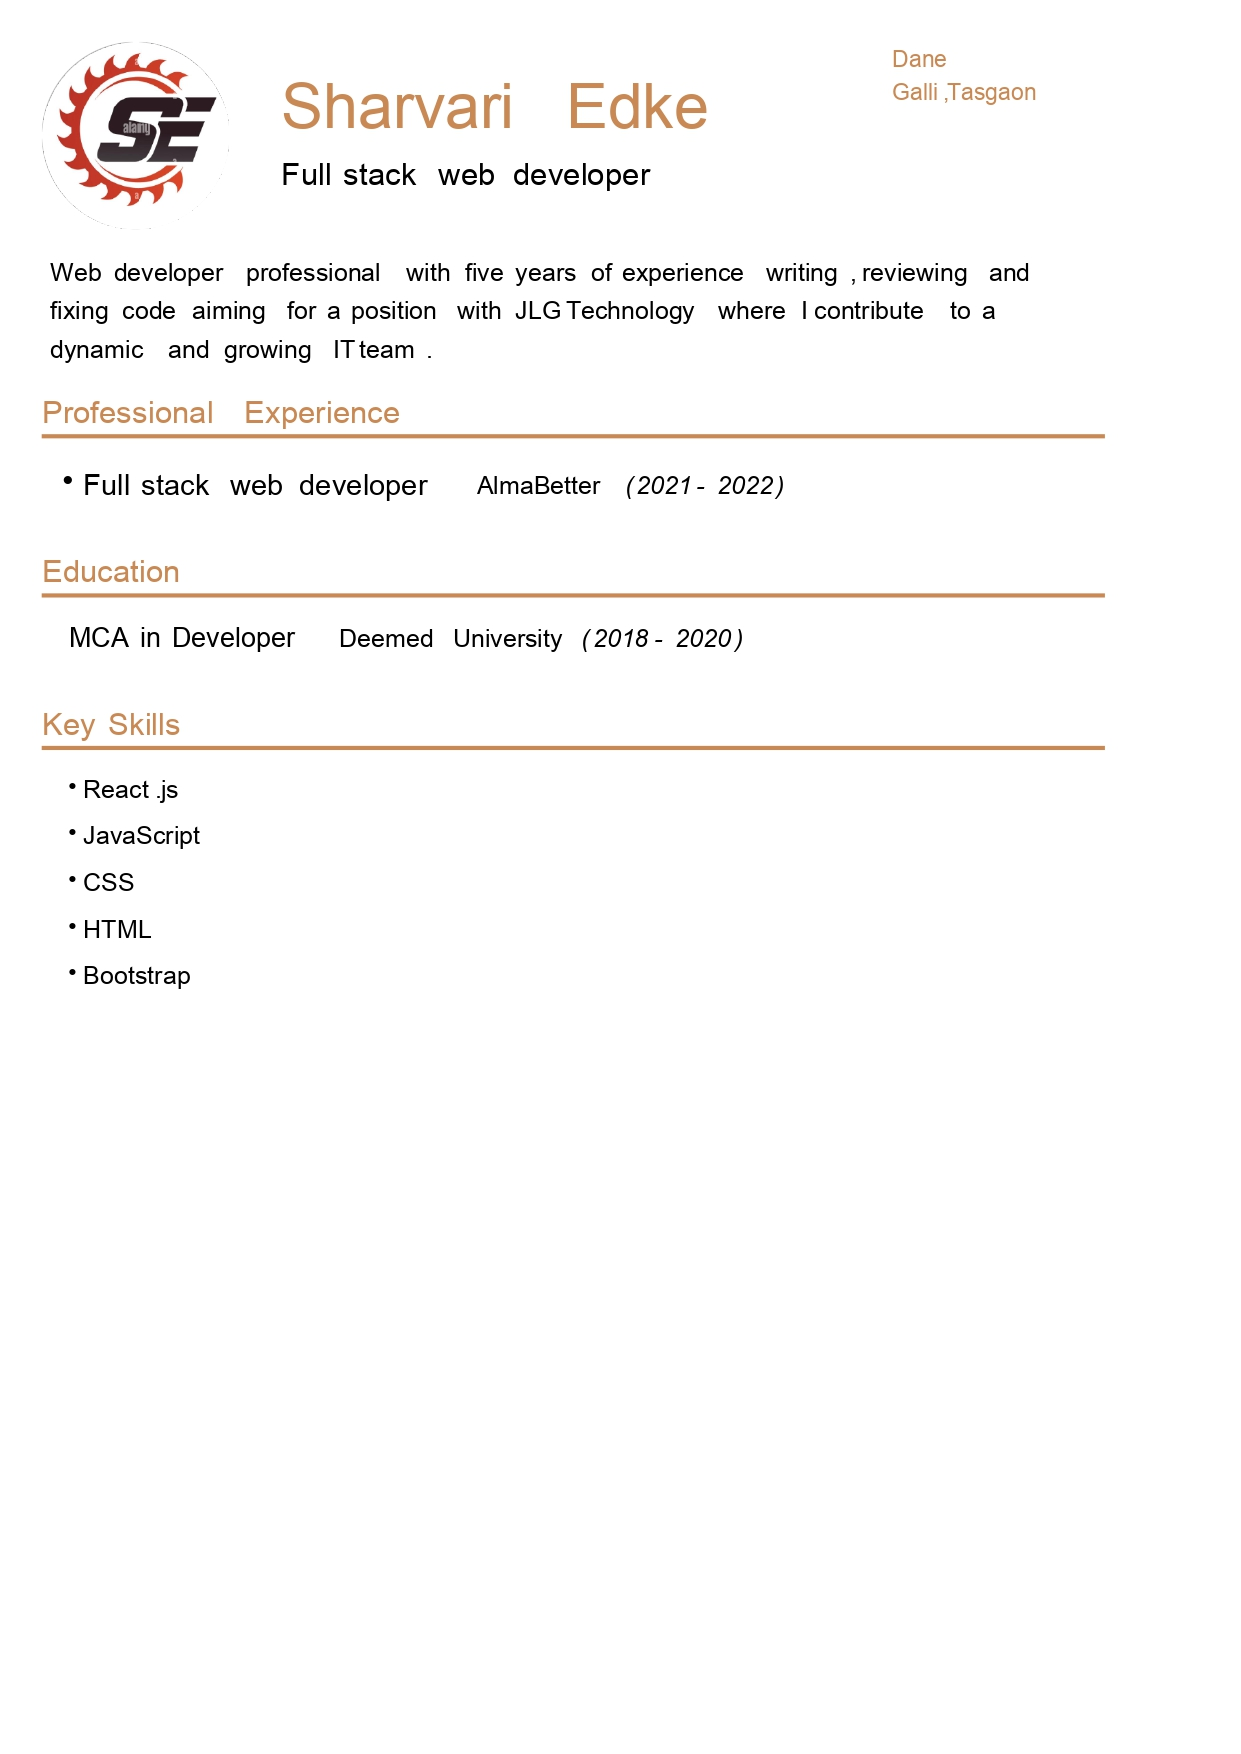
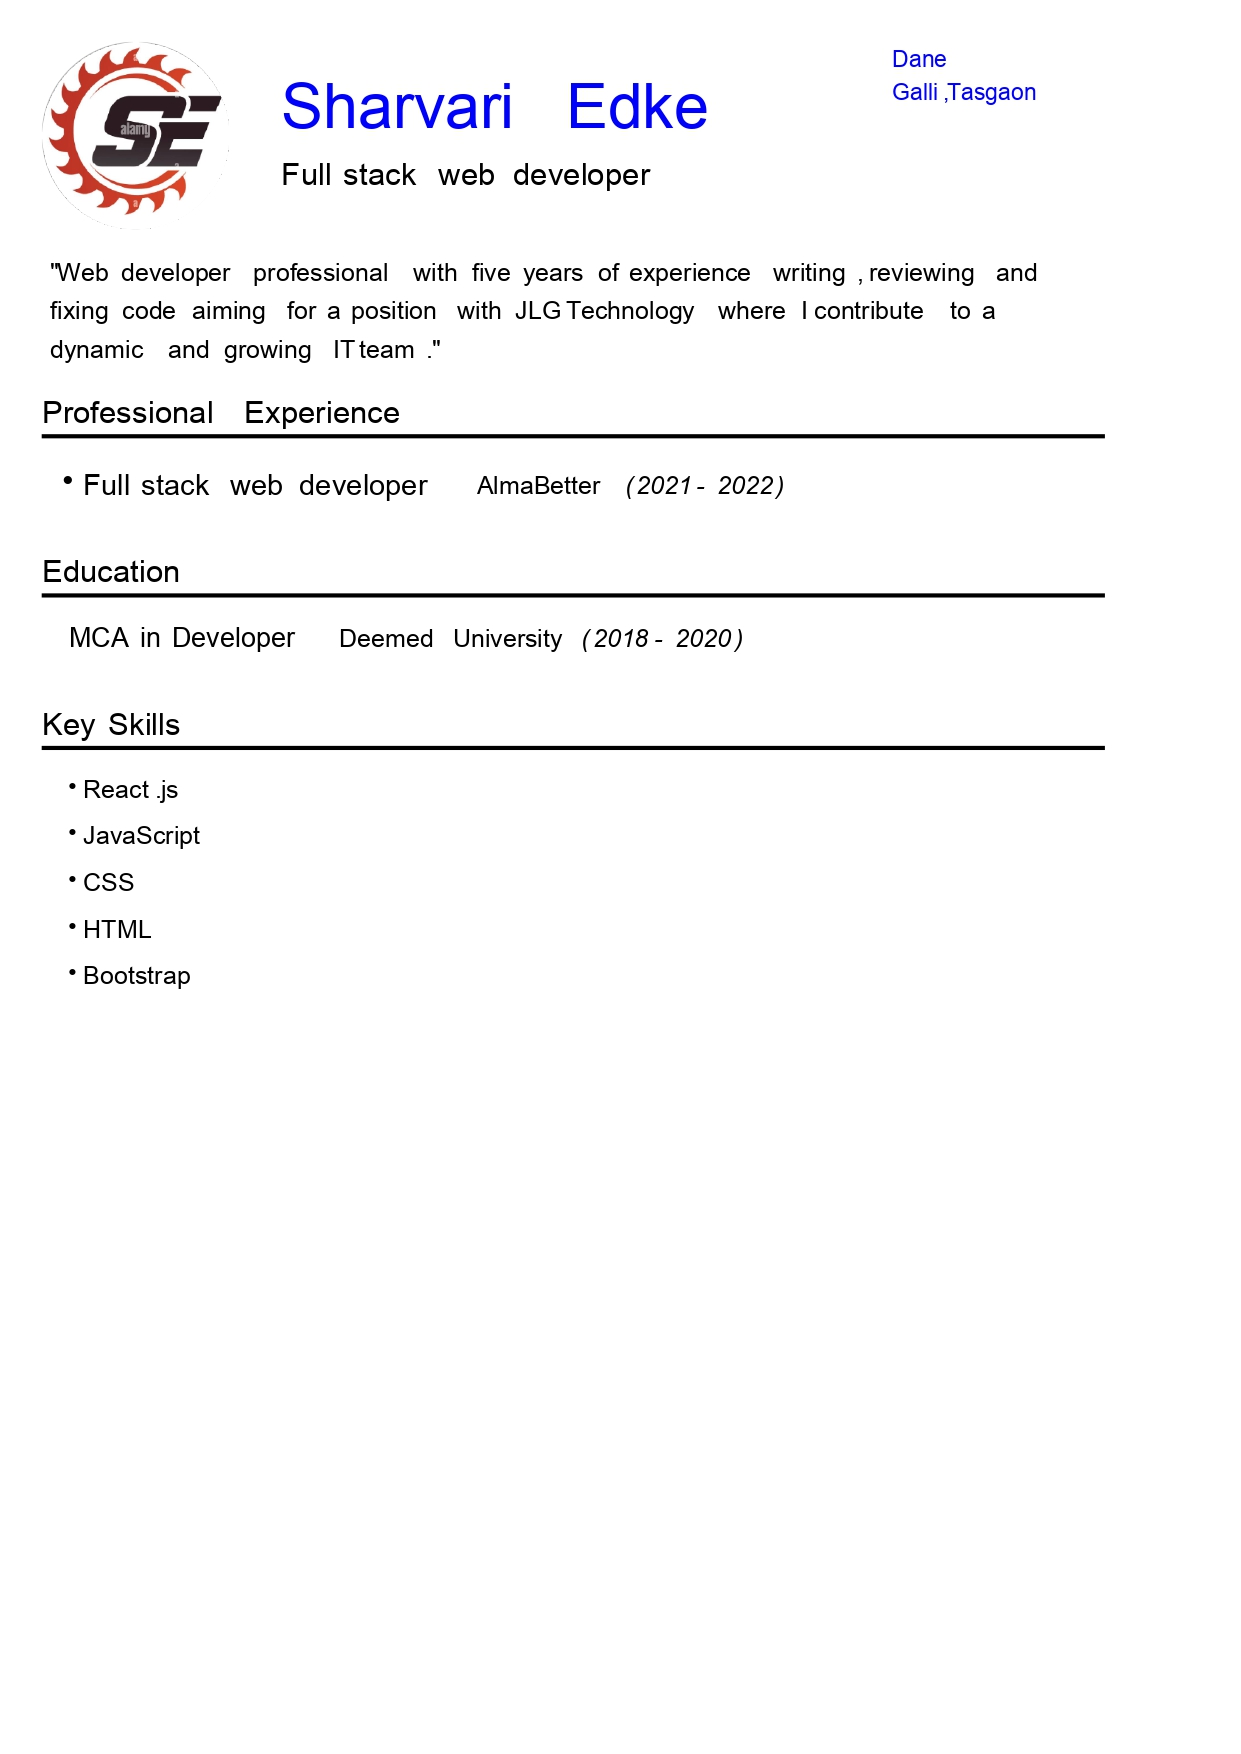
first commit

diff --git a/src/Templates/Template3.js b/src/Templates/Template3.js
@@ -1,14 +1,14 @@
 import { Container, Paper } from "@mui/material";
 import React from "react";
-import "../Styles/Template1.css";
+import "../Styles/Template3.css";
 import TemplateHeader from "../Component/TemplateHeader";
 import TemplateHeading from "../Component/TemplateHeading";
-import TemplateOneExperienceComponent from "../Component/TemplateOneExperienceComponent";
 import { data } from "../Data/data";
+import TemplateOneExperienceComponent from "../Component/TemplateOneExperienceComponent";
 import TemplateEducationComponent from "../Component/TemplateEducationComponent";
 import TemplateKeySkillComponent from "../Component/TemplateKeySkillComponent";
 
-const Template1 = (props) => {
+const Template3 = (props) => {
   // console.log(
   //   props.personalinfo,
   //   props.workexperience,
@@ -25,7 +25,7 @@ const Template1 = (props) => {
     ? props.educationinfo
     : data.education_details;
   const skills = props.skills ? props.skills : data.key_skills;
-  // console.log(props.index);
+
   return (
     <Paper
       sx={{
@@ -47,15 +47,15 @@ const Template1 = (props) => {
       id={`${props.index}report`}
       elevation={3}>
       <TemplateHeader
-        primaryColor={"blue"}
+        primaryColor={"black"}
         secondaryColor={"black"}
-        bgColor={"white"}
+        bgColor={"azure"}
         personalInfo={personalinfo}
         workExperience={workexperience}
       />
       <Container>
-        <TemplateHeading color={"black"} title={"Professional Experience"} />
-        <ul style={{ paddingBottom: 10 }}>
+        <TemplateHeading color={"Gray"} title={"Professional Experience"} />
+        <ul style={{ marginBottom: 10 }}>
           {workexperience.map((experience, index) => {
             return (
               <TemplateOneExperienceComponent
@@ -65,9 +65,9 @@ const Template1 = (props) => {
             );
           })}
         </ul>
-        <TemplateHeading color={"black"} title={"Education"} />
+        <TemplateHeading color={"Gray"} title={"Education"} />
         <TemplateEducationComponent education={educationinfo} />
-        <TemplateHeading color={"black"} title={"Key Skills"} />
+        <TemplateHeading color={"Gray"} title={"Key Skills"} />
         <ul style={{ marginBottom: 10 }}>
           {skills.map((skill, index) => {
             return <TemplateKeySkillComponent key={index} skill={skill} />;
@@ -78,4 +78,4 @@ const Template1 = (props) => {
   );
 };
 
-export default Template1;
+export default Template3;

diff --git a/src/Data/data.js b/src/Data/data.js
@@ -1,38 +1,31 @@
 export const data = {
     personal_info: {
-      first_name: "Vibhor",
-      last_name: "Mahajan",
-      email: "real.vibs@gmail.com",
-      mobile: "+919999999999",
-      address: "28, Visara nagar",
-      city: "Navi Mumbai",
+      first_name: "Sharvari",
+      last_name: "Edke",
+      email: "sharvari0822@gmail.com",
+      mobile: "+917777777777",
+      address: "Dane Galli,Tasgaon",
+      city: "Sangli",
       state: "Maharastra",
-      postal_code: "400705",
+      postal_code: "416312",
       objective:
-        "Web3 Developer with a couple of years of working with blockchain technology. Used JavaScript and Python to build smart contracts and DeFi protocols. Good collaboration and communication skills. ",
+        "Web developer professional with five years of experience writing, reviewing and fixing code aiming for a position with JLG Technology where I contribute to a dynamic and growing IT team. ",
     },
     work_experience: [
       {
         id: 1,
-        job_title: "Blockchain Dev",
-        organization_name: "Alma Better",
-        start_year: "2018",
+        job_title: "Full stack web developer",
+        organization_name: "AlmaBetter",
+        start_year: "2021",
         end_year: "2022",
-      },
-      {
-        id: 2,
-        job_title: "Blockchain Dev",
-        organization_name: "Alma Better",
-        start_year: "2018",
-        end_year: "2022",
-      },
+      }
     ],
     education_details: {
       type: "Graduation",
-      university: "COEP",
-      degree: "B.Tech",
+      university: "Demmed University",
+      degree: "MCA",
       start_year: "2018",
-      end_year: "2022",
+      end_year: "2020",
     },
-    key_skills: ["Python", "Blockchain", "MERN Stack", "Solidity"],
+    key_skills: ["React", "Javascript", "HTML", "CSS","Bootstrap"],
 };

diff --git a/src/Templates/Template4.js b/src/Templates/Template4.js
@@ -8,7 +8,7 @@ import { data } from "../Data/data";
 import TemplateEducationComponent from "../Component/TemplateEducationComponent";
 import TemplateKeySkillComponent from "../Component/TemplateKeySkillComponent";
 
-const Template1 = (props) => {
+const Template4 = (props) => {
   // console.log(
   //   props.personalinfo,
   //   props.workexperience,
@@ -47,14 +47,14 @@ const Template1 = (props) => {
       id={`${props.index}report`}
       elevation={3}>
       <TemplateHeader
-        primaryColor={"blue"}
+        primaryColor={"green"}
         secondaryColor={"black"}
         bgColor={"white"}
         personalInfo={personalinfo}
         workExperience={workexperience}
       />
       <Container>
-        <TemplateHeading color={"black"} title={"Professional Experience"} />
+        <TemplateHeading color={"green"} title={"Professional Experience"} />
         <ul style={{ paddingBottom: 10 }}>
           {workexperience.map((experience, index) => {
             return (
@@ -65,9 +65,9 @@ const Template1 = (props) => {
             );
           })}
         </ul>
-        <TemplateHeading color={"black"} title={"Education"} />
+        <TemplateHeading color={"green"} title={"Education"} />
         <TemplateEducationComponent education={educationinfo} />
-        <TemplateHeading color={"black"} title={"Key Skills"} />
+        <TemplateHeading color={"green"} title={"Key Skills"} />
         <ul style={{ marginBottom: 10 }}>
           {skills.map((skill, index) => {
             return <TemplateKeySkillComponent key={index} skill={skill} />;
@@ -78,4 +78,4 @@ const Template1 = (props) => {
   );
 };
 
-export default Template1;
+export default Template4;

diff --git a/src/Templates/Template2.js b/src/Templates/Template2.js
@@ -49,12 +49,12 @@ const Template2 = (props) => {
       <TemplateHeader
         primaryColor={"white"}
         secondaryColor={"white"}
-        bgColor={"#9B536F"}
+        bgColor={"Gray"}
         personalInfo={personalinfo}
         workExperience={workexperience}
       />
       <Container>
-        <TemplateHeading color={"#9B536F"} title={"Professional Experience"} />
+        <TemplateHeading color={"Gray"} title={"Professional Experience"} />
         <ul style={{ marginBottom: 10 }}>
           {workexperience.map((experience, index) => {
             return (
@@ -65,9 +65,9 @@ const Template2 = (props) => {
             );
           })}
         </ul>
-        <TemplateHeading color={"#9B536F"} title={"Education"} />
+        <TemplateHeading color={"Gray"} title={"Education"} />
         <TemplateEducationComponent education={educationinfo} />
-        <TemplateHeading color={"#9B536F"} title={"Key Skills"} />
+        <TemplateHeading color={"Gray"} title={"Key Skills"} />
         <ul style={{ marginBottom: 10 }}>
           {skills.map((skill, index) => {
             return <TemplateKeySkillComponent key={index} skill={skill} />;

diff --git a/src/Data/templates.js b/src/Data/templates.js
@@ -1,7 +1,12 @@
 import templateOneImg from "../Images/resume-template-one.JPG";
 import templateTwoImg from "../Images/resume-template-two.JPG";
+import templateThreeImg from"../Images/resume-template-three.JPG";
+import templateFoureImg from"../Images/resume-template-foure.JPG";
 import Template1 from "../Templates/Template1";
 import Template2 from "../Templates/Template2";
+import Template3 from "../Templates/Template3";
+import Template4 from "../Templates/Template4";
+
 
 export const templates = [
   {
@@ -15,5 +20,17 @@ export const templates = [
     template_name: "Template Two",
     template_img: templateTwoImg,
     template: <Template2 />,
+  },
+  {
+    id: 3,
+    template_name: "Template Three",
+    template_img: templateThreeImg,
+    template: <Template3 />,
+  },
+  {
+    id: 4,
+    template_name: "Template Foure",
+    template_img: templateFoureImg,
+    template: <Template4 />,
   },
 ];

diff --git a/src/Component/PersonalInfoComponent.js b/src/Component/PersonalInfoComponent.js
@@ -35,8 +35,8 @@ const BootstrapDialog = styled(Dialog)(({ theme }) => ({
 const PersonalInfoComponent = (props) => {
   const [loading, setLoading] = useState(false);
   const [imgSnackbar, setImgSnackbar] = useState(false);
-  const [vertical, setVertical] = useState("top");
-  const [horizontal, setHorizontal] = useState("center");
+  const [vertical] = useState("top");
+  const [horizontal] = useState("center");
 
   const {
     register,
@@ -47,7 +47,7 @@ const PersonalInfoComponent = (props) => {
   const [img, setImg] = useState(
     props.personalInfo.profileImg.length ? props.personalInfo.profileImg : ""
   );
-  const [sotreImage, setSotreImage] = useState([]);
+  const [setSotreImage] = useState([]);
 
   const [open, setOpen] = useState(false);
 

diff --git a/src/Styles/PersonalInfoComponent.css b/src/Styles/PersonalInfoComponent.css
@@ -7,7 +7,7 @@
   
   .MuiButtonBase-root.MuiButton-root.change-profile-photo-btn {
     font-size: 14px;
-    text-transform: capitalize;
+    text-transform:capitalize;
     margin-bottom: 15px;
   }
   

diff --git a/src/Styles/Template3.css b/src/Styles/Template3.css
@@ -1,0 +1,3 @@
+.MuiContainer-root.css-1oqqzyl-MuiContainer-root {
+    padding: 0px 20px;
+  }

diff --git a/src/Styles/Template4.css b/src/Styles/Template4.css
@@ -1,0 +1,3 @@
+.MuiContainer-root.css-1oqqzyl-MuiContainer-root {
+    padding: 0px 20px;
+  }
